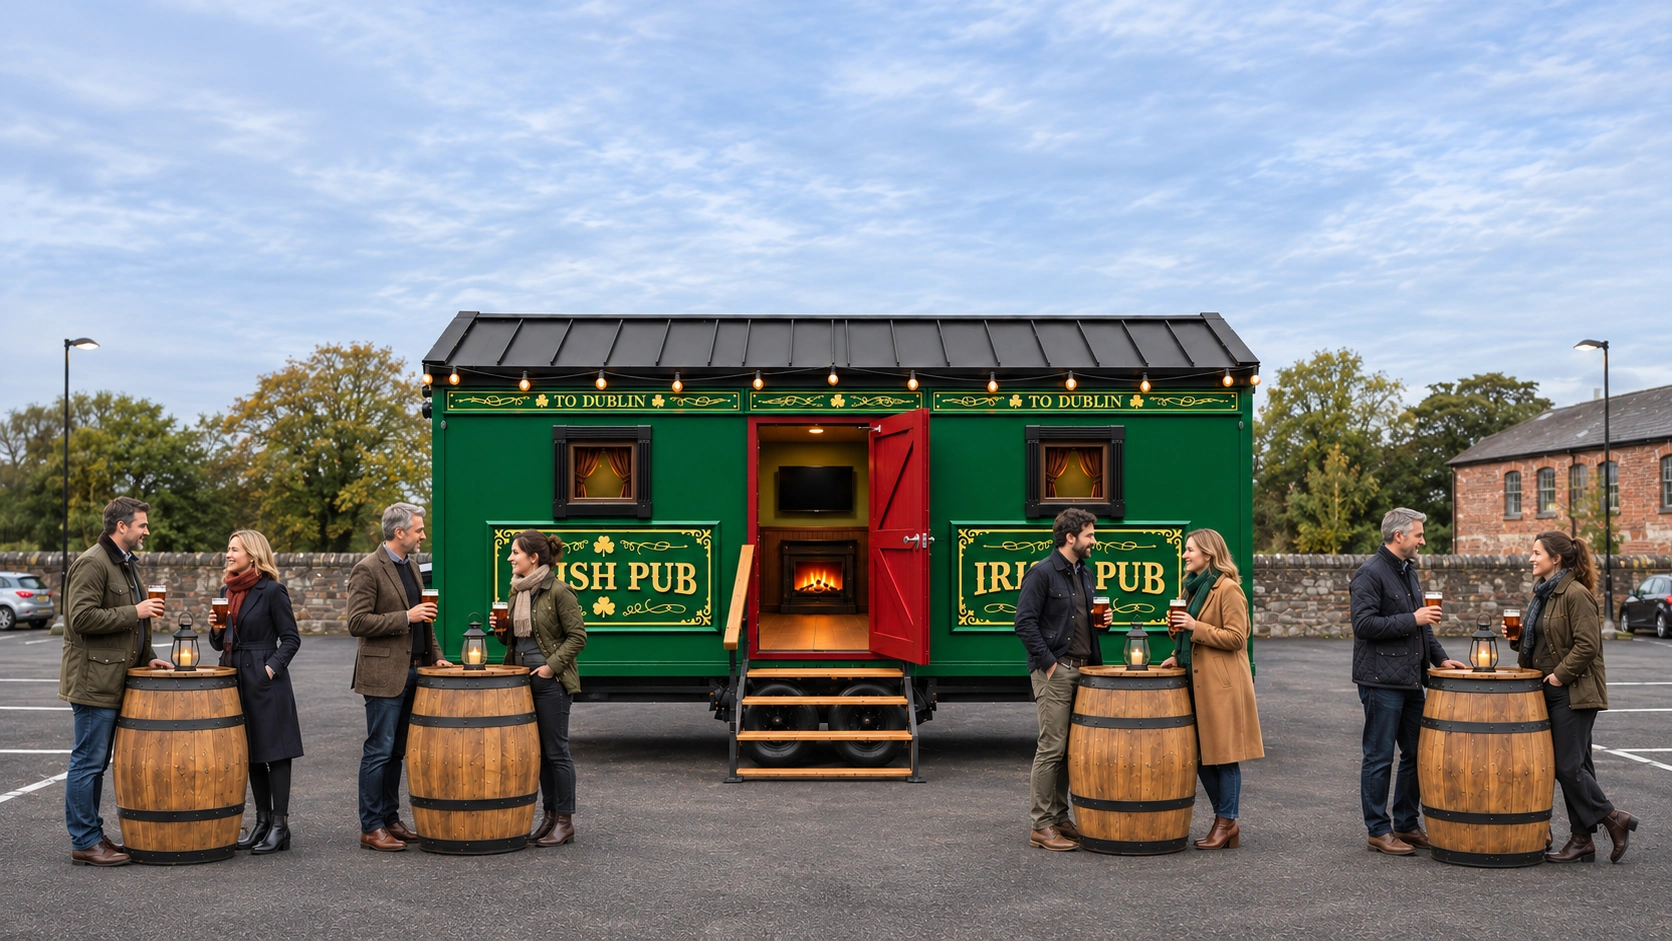
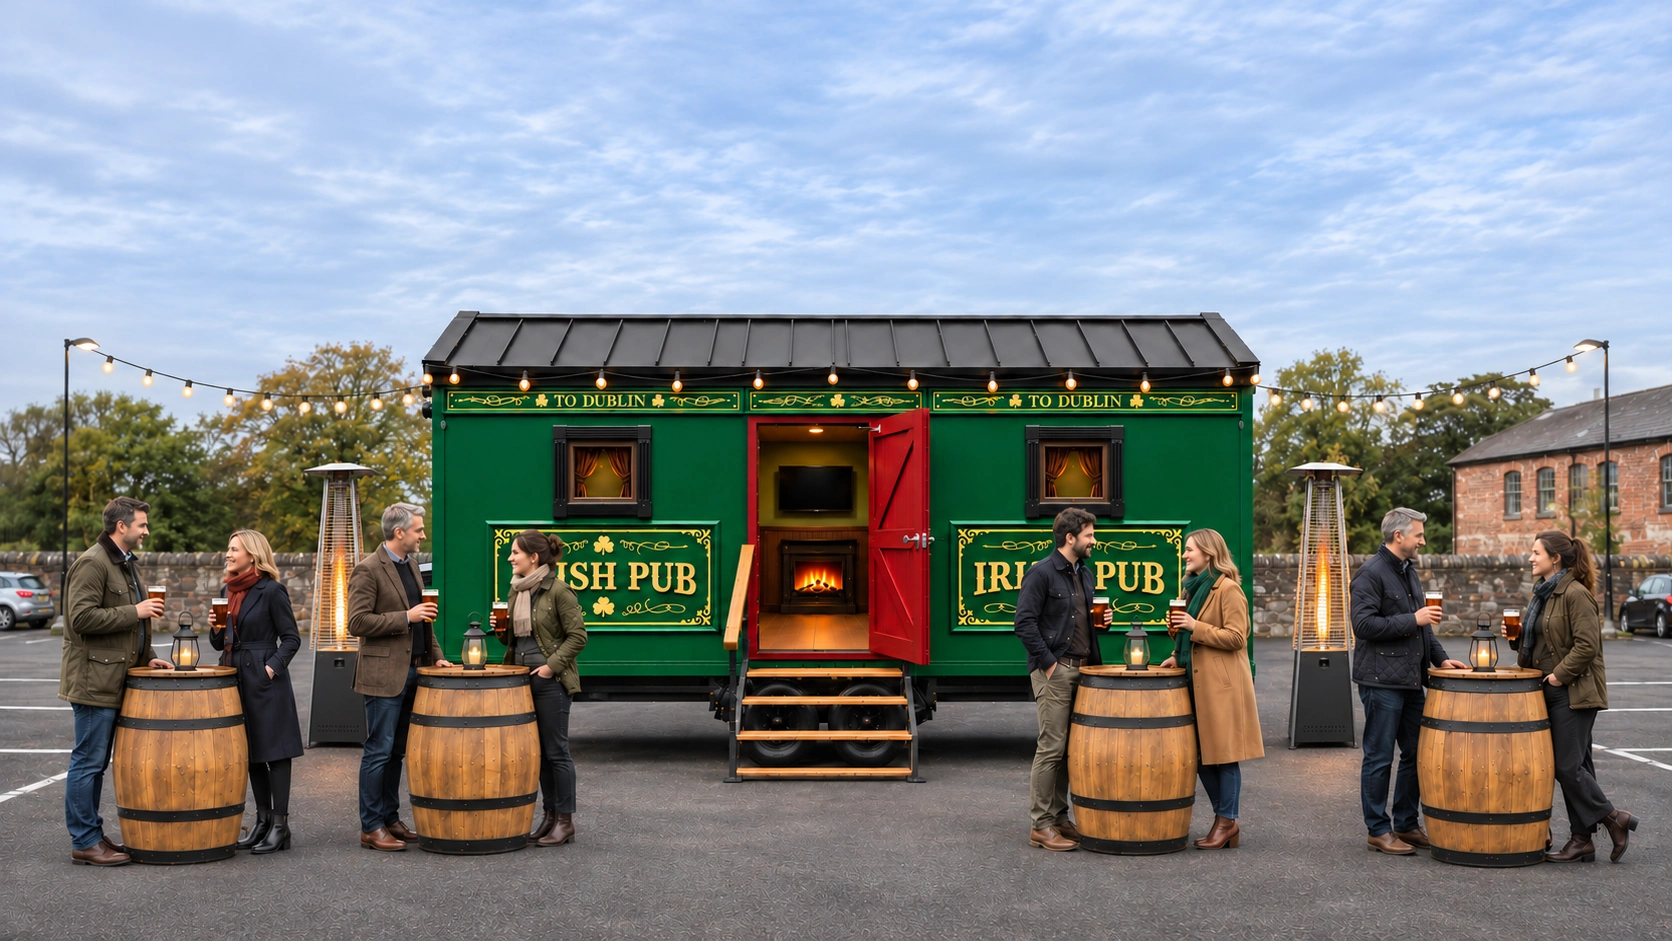
Brighten night scene with festoon lights and patio heaters

diff --git a/index.html b/index.html
@@ -22,13 +22,13 @@
   <link rel="stylesheet" href="legal.css?v=1">
   <link rel="stylesheet" href="yandex-inquiry.css?v=1">
   <link rel="stylesheet" href="unified.css?v=lighting-quality-6">
-  <meta property="og:image" content="https://qwebdog.github.io/tdpub/social-preview.jpg?v=hero-rebuild-1">
-  <meta property="og:image:secure_url" content="https://qwebdog.github.io/tdpub/social-preview.jpg?v=hero-rebuild-1">
+  <meta property="og:image" content="https://qwebdog.github.io/tdpub/social-preview.jpg?v=night-lights-1">
+  <meta property="og:image:secure_url" content="https://qwebdog.github.io/tdpub/social-preview.jpg?v=night-lights-1">
   <meta property="og:image:type" content="image/jpeg">
   <meta property="og:image:width" content="1672">
   <meta property="og:image:height" content="941">
   <meta property="og:image:alt" content="Мобильный ирландский паб to Dublin на вечернем мероприятии">
-  <meta name="twitter:image" content="https://qwebdog.github.io/tdpub/social-preview.jpg?v=hero-rebuild-1">
+  <meta name="twitter:image" content="https://qwebdog.github.io/tdpub/social-preview.jpg?v=night-lights-1">
   <meta name="twitter:image:alt" content="Мобильный ирландский паб to Dublin на вечернем мероприятии">
   <link rel="icon" href="favicon.ico" sizes="any">
   <link rel="icon" type="image/png" sizes="32x32" href="favicon-32.png">
@@ -51,16 +51,16 @@
   <section class="experience" id="experience" aria-labelledby="brandTitle">
     <div class="scenes" aria-hidden="true">
       <div class="time-scene is-active" data-scene="morning" aria-hidden="false">
-        <picture><source media="(max-width: 700px)" srcset="courtyard-morning-busy-mobile.webp?v=hero-rebuild-1"><img class="scene-photo" src="courtyard-morning-busy.webp?v=hero-rebuild-1" alt="" fetchpriority="high" draggable="false"></picture>
+        <picture><source media="(max-width: 700px)" srcset="courtyard-morning-busy-mobile.webp?v=night-lights-1"><img class="scene-photo" src="courtyard-morning-busy.webp?v=night-lights-1" alt="" fetchpriority="high" draggable="false"></picture>
       </div>
       <div class="time-scene" data-scene="day" aria-hidden="true">
-        <picture><source media="(max-width: 700px)" data-srcset="courtyard-day-busy-mobile.webp?v=hero-rebuild-1"><img class="scene-photo" data-src="courtyard-day-busy.webp?v=hero-rebuild-1" alt="" decoding="async" draggable="false"></picture>
+        <picture><source media="(max-width: 700px)" data-srcset="courtyard-day-busy-mobile.webp?v=night-lights-1"><img class="scene-photo" data-src="courtyard-day-busy.webp?v=night-lights-1" alt="" decoding="async" draggable="false"></picture>
       </div>
       <div class="time-scene" data-scene="sunset" aria-hidden="true">
-        <picture><source media="(max-width: 700px)" data-srcset="courtyard-sunset-busy-mobile.webp?v=hero-rebuild-1"><img class="scene-photo" data-src="courtyard-sunset-busy.webp?v=hero-rebuild-1" alt="" decoding="async" draggable="false"></picture>
+        <picture><source media="(max-width: 700px)" data-srcset="courtyard-sunset-busy-mobile.webp?v=night-lights-1"><img class="scene-photo" data-src="courtyard-sunset-busy.webp?v=night-lights-1" alt="" decoding="async" draggable="false"></picture>
       </div>
       <div class="time-scene" data-scene="night" aria-hidden="true">
-        <picture><source media="(max-width: 700px)" data-srcset="courtyard-night-busy-mobile.webp?v=hero-rebuild-1"><img class="scene-photo" data-src="courtyard-night-busy.webp?v=hero-rebuild-1" alt="" decoding="async" draggable="false"></picture>
+        <picture><source media="(max-width: 700px)" data-srcset="courtyard-night-busy-mobile.webp?v=night-lights-1"><img class="scene-photo" data-src="courtyard-night-busy.webp?v=night-lights-1" alt="" decoding="async" draggable="false"></picture>
       </div>
     </div>
     <div class="scene-shade" aria-hidden="true"></div>
@@ -90,7 +90,7 @@
       <div class="service-intro-heading">
         <h2 id="serviceTitle">Мобильный ирландский паб</h2>
       </div>
-      <video class="service-photo service-video" data-src="media/pub-atmosphere.mp4" width="1280" height="720" data-poster="courtyard-night-busy.webp?v=hero-rebuild-1" autoplay muted loop playsinline controls preload="none" aria-label="Видео о мобильном пабе to Dublin"></video>
+      <video class="service-photo service-video" data-src="media/pub-atmosphere.mp4" width="1280" height="720" data-poster="courtyard-night-busy.webp?v=night-lights-1" autoplay muted loop playsinline controls preload="none" aria-label="Видео о мобильном пабе to Dublin"></video>
       <div class="service-intro-copy">
         <p class="service-lead">Ваше событие — <span>с ирландским характером.</span></p>
         <p class="service-intro-description">Привезём to Dublin на вашу площадку: фургон, оборудование, команду и напитки. Всё для работы паба — под ключ.</p>

diff --git a/configure-seo.py b/configure-seo.py
@@ -17,7 +17,7 @@ for name,path in [('index.html','')]:
  page=root/name;s=page.read_text()
  s=re.sub(r'\s*<link rel="canonical"[^>]*>','',s)
  s=re.sub(r'\s*<meta (?:property|name)="(?:og:url|og:image(?::(?:alt|type|width|height|secure_url))?|twitter:image(?::alt)?)"[^>]*>','',s)
- image=base+'social-preview.jpg?v=hero-rebuild-1'
+ image=base+'social-preview.jpg?v=night-lights-1'
  tags=f'''  <link rel="canonical" href="{escape(base+path,quote=True)}">
   <meta property="og:url" content="{escape(base+path,quote=True)}">
   <meta property="og:image" content="{escape(image,quote=True)}">

diff --git a/MEDIA.md b/MEDIA.md
@@ -12,13 +12,13 @@
 
 ## Геометрия и качество сцен
 
-Главный экран пересобран по последнему студийному рендеру: зелёный фургон, чёрная крыша и рамы, коричневые шторы, красная дверь и золотые вывески. Четыре бочки сохраняют прежнее расположение группами слева и справа; восемь новых гостей общаются парами, проход к входу свободен. Окружение — асфальтированная парковочная площадка с деревьями и кирпичной стеной. Пирамидальные обогреватели убраны.
+Главный экран пересобран по последнему студийному рендеру: зелёный фургон, чёрная крыша и рамы, коричневые шторы, красная дверь и золотые вывески. Четыре бочки сохраняют прежнее расположение группами слева и справа; восемь гостей общаются парами, проход к входу свободен. Окружение — асфальтированная парковочная площадка с деревьями и кирпичной стеной. По новым референсам добавлены два пирамидальных газовых обогревателя и низкие гирлянды между боковыми фонарями и крышей паба. Небо над названием свободно.
 
 Все четыре фазы используют одну нейтральную фотографию для каждого формата: 1021×1540 на телефоне и 1672×941 на широком экране. Исходники `pub-neutral-mobile.webp` и `pub-neutral-desktop.webp` сохранены без потерь из новых PNG. Дневная сцена показывает нейтральный исходник; утро, закат и ночь меняют только освещение и цвет того же облачного неба. Вход, вывески, люди и четыре бочки сохраняют одинаковые координаты между фазами.
 
 Генератор `python scripts/build-mobile-scenes.py` (Python, Pillow, resvg-py) создаёт редактируемые SVG-композиции и готовые WebP с качеством 96. Сайт загружает WebP на всех экранах: без расчёта SVG-фильтров в браузере и без повторного сжатия исходника с качеством 88. SVG-композиции исключены из полного архива как неиспользуемые браузером. Для размещения сборка не требуется.
 
-Ночное освещение строится из холодного общего света и мягкого локального света настоящих источников в кадре: ламп под крышей, окон, камина, фонарей и свечей на столиках. Фон ночью затемняется плавно, без вырезания листвы: ветви и края крыш сохраняют естественный контур. Крупные дневные пятна на людях, искусственные огненные столбы и равномерная подсветка всей вывески удалены. Чёрная точка сохраняется: телевизор и рамы не становятся серыми. Границы неба для заката и координаты источников описаны в `scripts/scene-profiles.json`. Приближение и параллакс отключены для обоих форматов. Затемнение страницы имеет лёгкий нейтральный оттенок.
+Ночной общий свет поднят, чтобы люди, бочки и фургон лучше читались. Локальный тёплый свет связан с настоящими источниками в кадре: гирляндами, огнём в стеклянных колбах обогревателей, окнами, камином и свечами. Светящиеся детали восстанавливаются из исходника с сохранением фактуры; оранжевые геометрические фигуры поверх фотографии не рисуются. Фон ночью затемняется плавно, без вырезания листвы: ветви и края крыш сохраняют естественный контур. Чёрная точка сохраняется: телевизор и рамы не становятся серыми. Границы неба для заката и координаты источников описаны в `scripts/scene-profiles.json`. Приближение и параллакс отключены для обоих форматов.
 
 ## Видео
 
